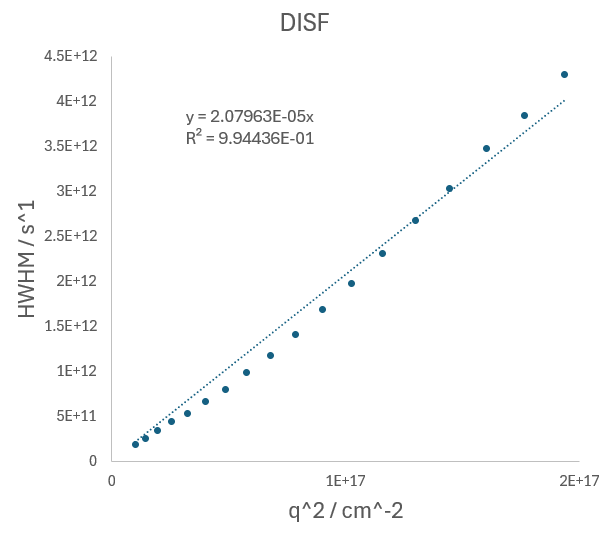
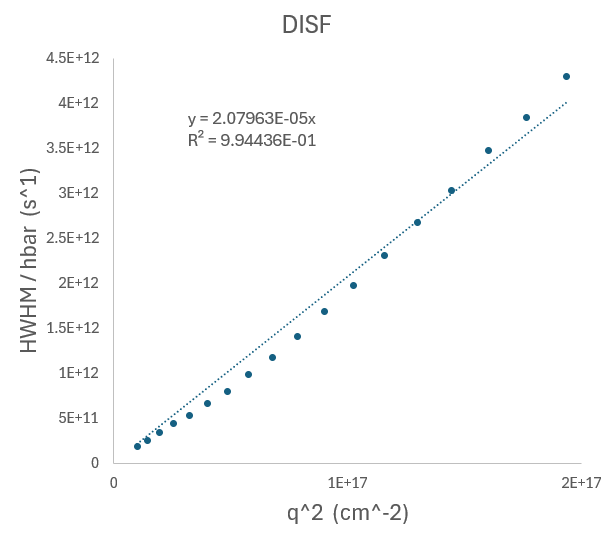
updated tutorial 3

diff --git a/tutorials/tutorial3-quasielastic-neutron-scattering/README.md b/tutorials/tutorial3-quasielastic-neutron-scattering/README.md
@@ -107,9 +107,10 @@ described in this tutorial.
 
 ## mdanse_outputs
 All the files created by MDANSE will be written here. We included some 
-precalculated results using a long Argon trajectory.
+precalculated results using a longer Argon trajectory.
 * dynamicincoherentstructurefactor_long.mda - DISF of an Argon trajectory.
 * gaussiandynamicincoherentstructurefactor_long.mda - GDISF of an Argon trajectory.
+* meansquareddisplacement_long.mda - MSD of an Argon trajectory.
 
 # The actual tutorial, step by step.
 In the text of the tutorial, we will concentrate on the
@@ -119,13 +120,17 @@ the parts of the tutorial are provided in `md_inputs/script*`.
 
 ## Convert and load the trajectory
 This tutorial will use by using the trajectory files from tutorial 2, 
-see **MDANSE Tutorial 2: the van Hove functions** for details.
+see **MDANSE Tutorial 2: the van Hove functions** for details. Alternatively 
+use the `mdanse_inputs/script1_conversion.py` script, the converted 
+trajectory will be in `mdanse_outputs/converted_trajectory.mdt`.
 
 ## Calculated the DISF and GDISF
 Open and select the `converted_trajectory.mdt` from tutorial 2 and then select the 
 DynamicIncoherentStructureFactor job and set the `q_vectors` setting to
 `SphericalQVectors`, shells to `(10, 44, 2)`, `n_vectors` to `100` and `width` 
-to `0` and the `weights` setting to `equal`. To speed the calculation up, 
+to `0` and the `weights` setting to `equal`. This setting will mean 
+that $q$ values from $1.0$  to $4.4$ Å in steps of $0.2$ Å will be calculated. 
+To speed the calculation up, 
 switch the `running_mode` to `multicore` and the number of processes to a 
 number greater than `1`. Set the outputs file setting to 
 `mdanse_outputs/dynamicincoherentstructurefactor.mda` and hit 'RUN!'. 
@@ -186,7 +191,7 @@ results for different values of $q$.
 
 **Question 2**: Visually it looks like the best agreements between the 
 DISF and GDISF are obtained for the smallest and largest values of $q$. 
-Why does GDISF perform well for these values of $q$?
+Why does the Gaussian approximation perform well for these values of $q$?
 
 
 ## Calculated the diffusion constant of Argon
@@ -305,11 +310,11 @@ gives a diffusion constant of $1.96$ cm$^2$s$^-1$.
 
 We should expect some differences from all three results, 
 it is only at specific limits where they will agree with each other. 
-This occurs when the MSD is calculated at $t \rightarrow \infty$ and the 
+This occurs when the MSD is calculated at large $t$ and the 
 diffusion is calculated from QENS peaks at small $q$. Small $q$ values 
-are required as this ensures that nongaussian effects in the DISF are 
-small and also where the main contribution to the QENS peak are from 
-long wavelength dynamics for both GDISF and DISF.
+are required as this is where the nongaussian effects in the DISF are 
+small and also where the main contribution to the QENS peak for both GDISF and DISF 
+are from long wavelength dynamics.
 
 Since our linear fits were made over a range of $q$ our calculations 
 for the diffusion constant will be inaccurate due to the effects mentioned 
